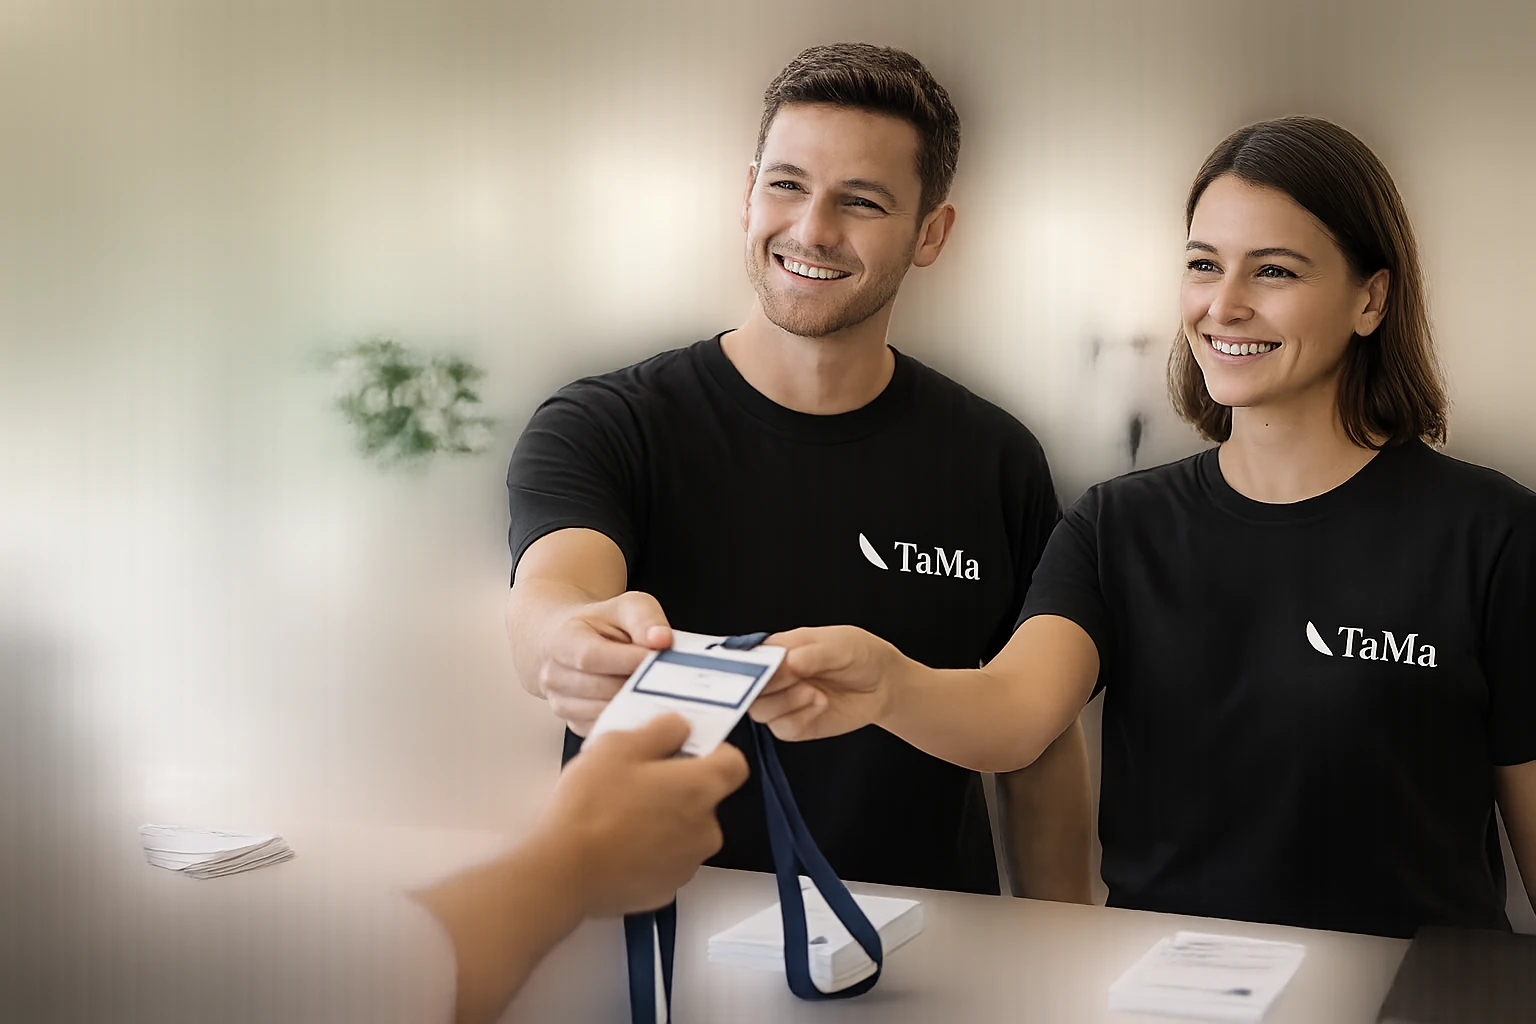
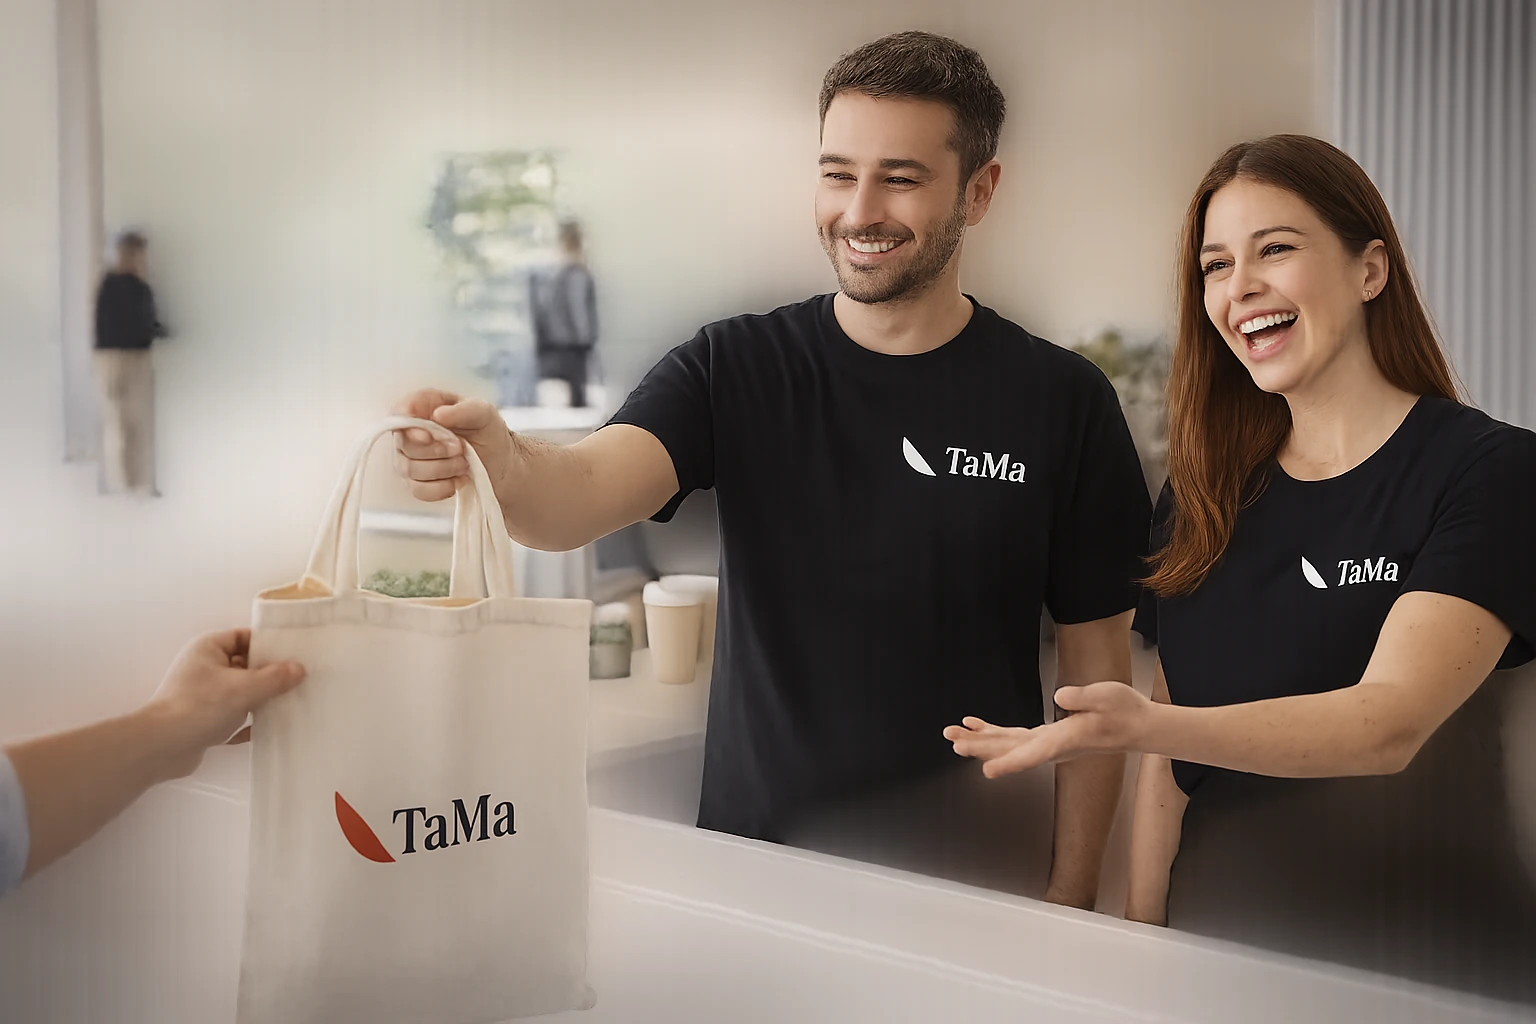
Confecções: cena de evento recriada (ecobag em vez de crachá segurado por duas pessoas)

diff --git a/build.py b/build.py
@@ -1082,7 +1082,7 @@ CONF_SLIDES = [
      'Gastronomia e hotelaria', 'Dólmãs feitas para o <em>calor da cozinha</em>.',
      'Dólmãs e aventais bordados com a sua marca, em cores e em jeans.',
      cta_link('Conversar sobre uniformes', tipo='confeccoes', track_label='conf-hero-2') + '<a class="btn btn-line" href="/catalogo/?categoria=vestuario">Ver dólmãs e aventais ' + ARROW + '</a>'),
-    ('tone-rose', 'conf-evento-camisetas', '--fx:72%;--fy:30%;--fx-m:70%', 'Equipe de evento com camisetas pretas com a marca TaMa em branco entregando um crachá na recepção.',
+    ('tone-rose', 'conf-evento-camisetas', '--fx:72%;--fy:30%;--fx-m:70%', 'Equipe de evento de camisetas pretas com a marca TaMa entregando uma ecobag com a marca a um visitante.',
      'Eventos e ações', 'Camisetas que viram <em>presença de marca</em>.',
      'Silk em camisetas para feiras, campanhas e ativações, com a cor e o corte certos para cada equipe.',
      cta_link('Planejar um evento', tipo='confeccoes', track_label='conf-hero-3') + '<a class="btn btn-line" href="/catalogo/?categoria=vestuario">Ver camisetas ' + ARROW + '</a>'),
